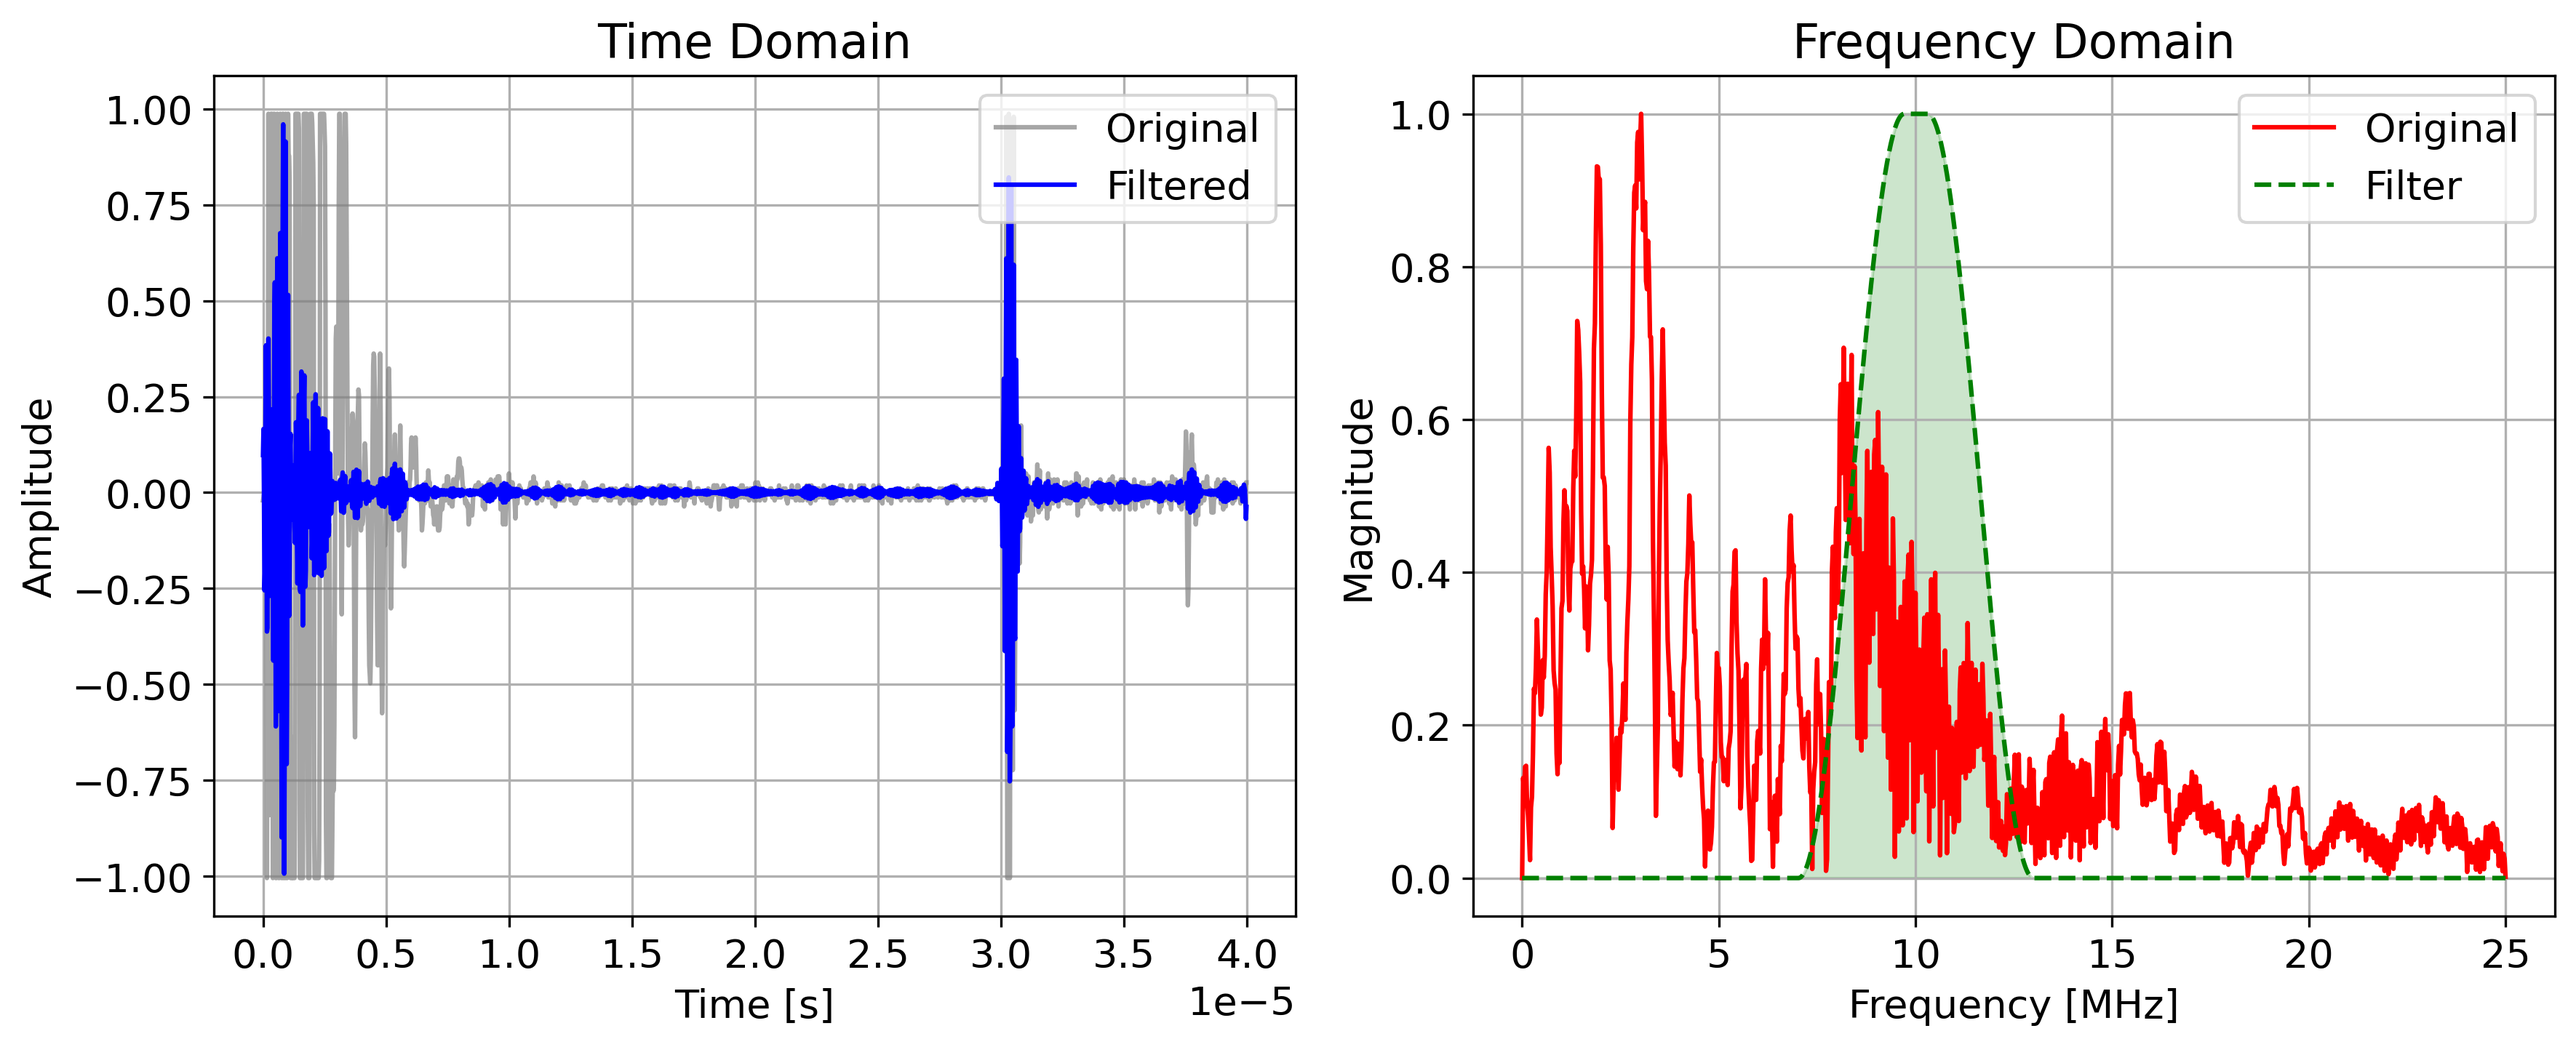
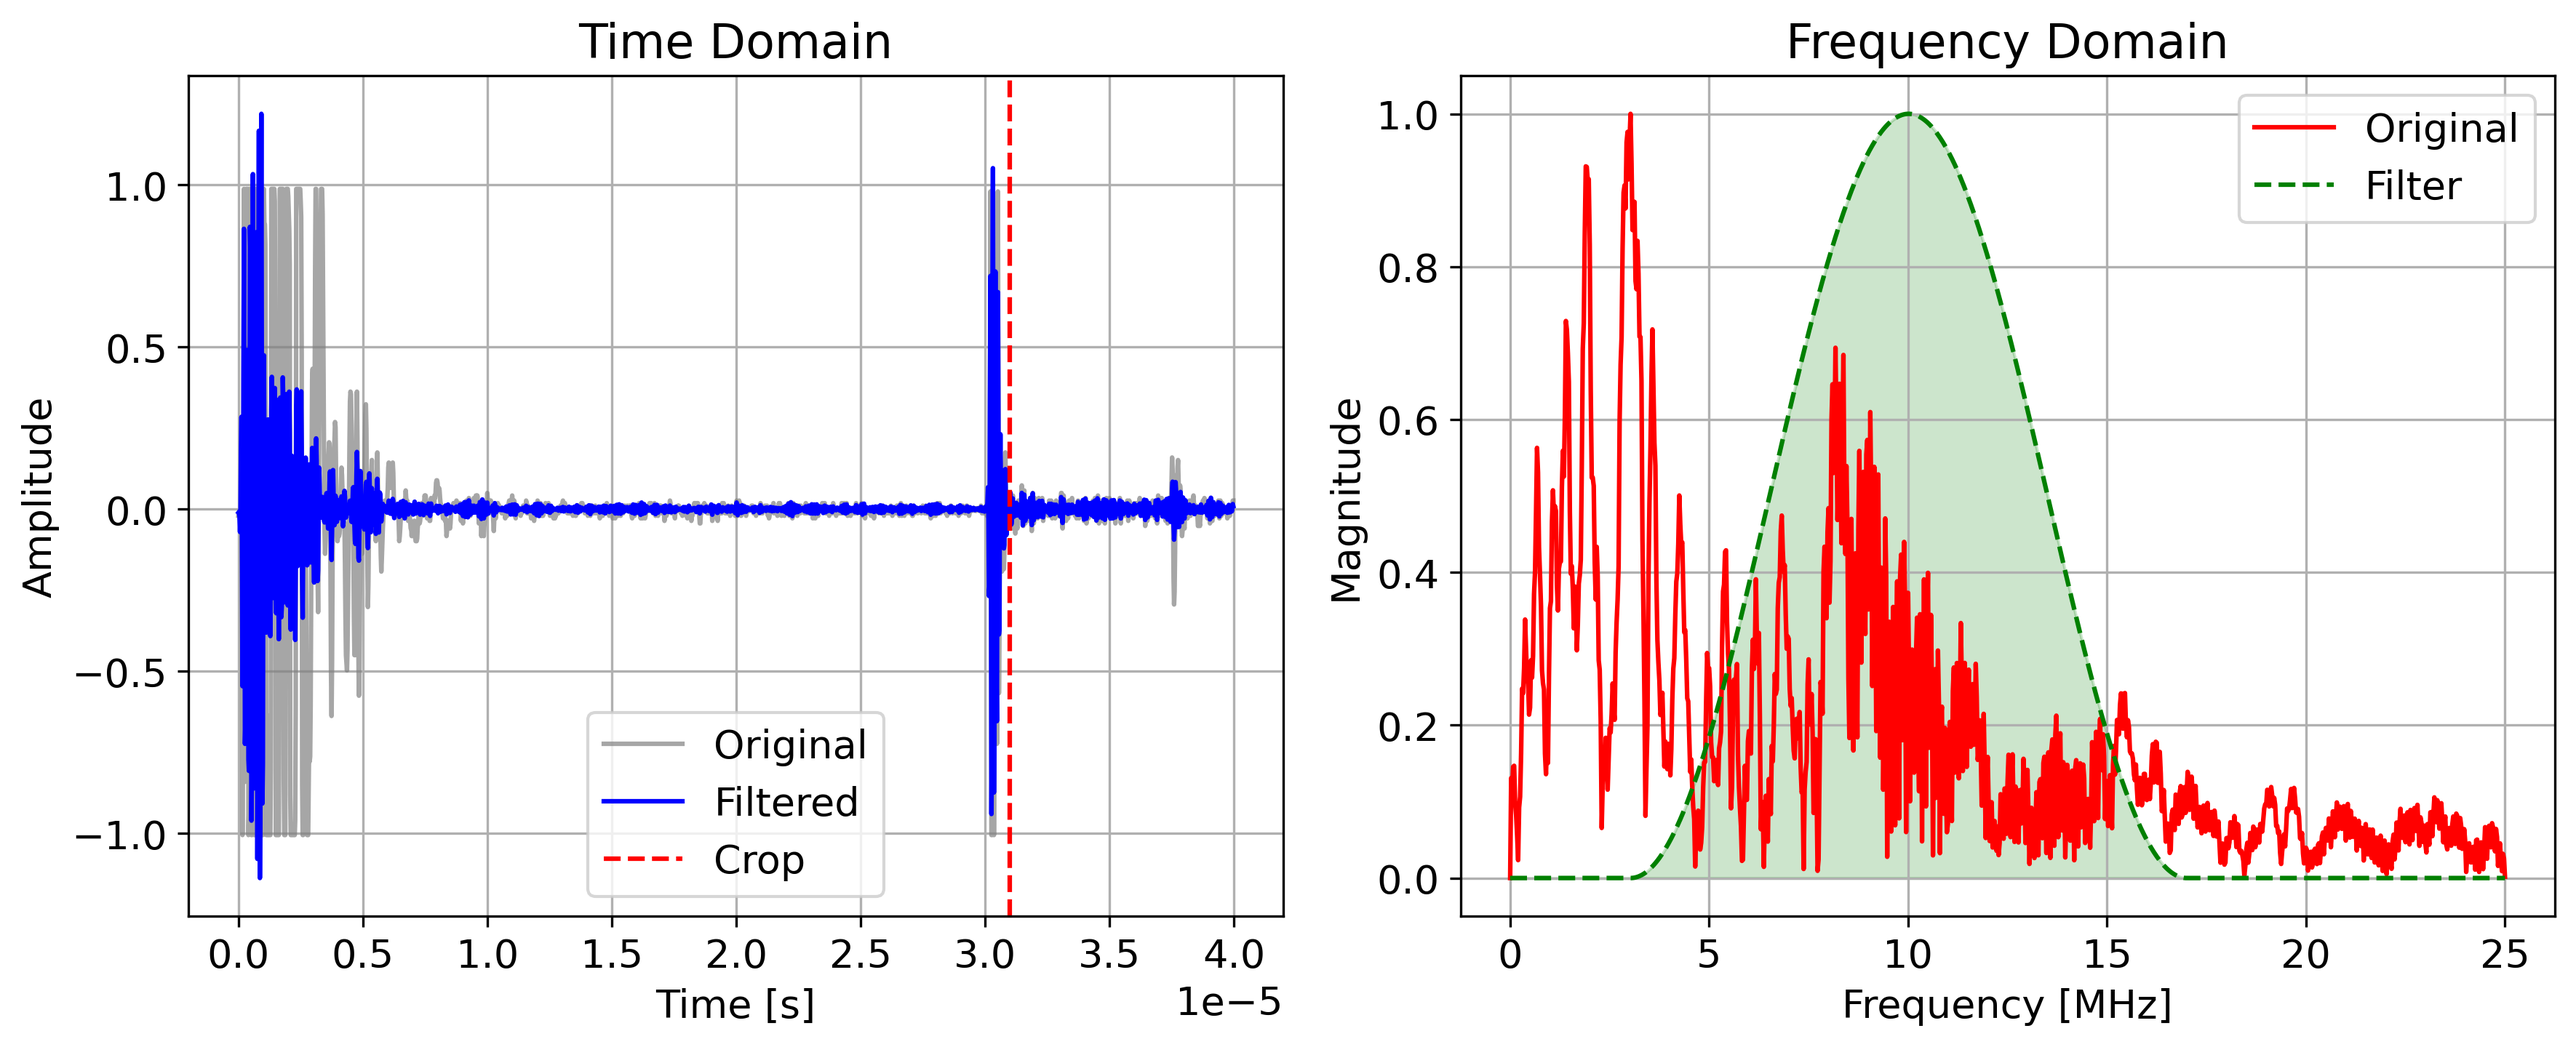
Lain Updates

diff --git a/PROCESSING/Report Filtering Example.py b/PROCESSING/Report Filtering Example.py
@@ -1,0 +1,149 @@
+#%%
+from pathlib import Path
+import sys
+import os
+import matplotlib.pyplot as plt
+import pandas as pd
+import numpy as np
+import h5py
+
+root_path = Path(__file__).resolve().parent.parent
+if str(root_path) not in sys.path:
+    sys.path.append(str(root_path))
+
+from Classes.Filter import filter_signal
+
+def remove_spikes(signal, threshold=500, verbose=False):
+    signal = signal.copy()
+    for i in range(1, len(signal)):
+        if signal[i] > threshold:
+            signal[i] = signal[i-1]
+            if verbose:
+                print('Signal exceeds threshold')
+    return signal
+
+
+raw_data_type       = '1D Raw Data'
+raw_data_name       = 'Al Hole 15MHz 26012026'
+processed_data_type = '1D Processed Data'
+
+display_picture     = True
+save_picture        = True  
+all_pictures        = False  
+filter_data         = False
+
+crop_data           = True
+crop_initial_amount = 100  
+crop_latter_amount  = 800
+
+# Filtering Parameters
+filter_alpha   = 1.0
+MHz_percentage = 1.5 
+hanning_bool   = False
+
+IN_DIR  = os.path.join(root_path, 'DATA', raw_data_type, raw_data_name)
+if filter_data:
+    OUT_DIR = os.path.join(root_path, 'DATA', processed_data_type, (raw_data_name + ' Filtered'))
+else:
+    OUT_DIR = os.path.join(root_path, 'DATA', processed_data_type, raw_data_name)
+
+os.makedirs(OUT_DIR, exist_ok=True)
+
+# Find all .mat files
+mat_files = [
+    f for f in os.listdir(IN_DIR)
+    if f.lower().endswith(".mat")
+    and os.path.isfile(os.path.join(IN_DIR, f))
+]
+mat_files = np.sort(mat_files)
+
+print(f'Found {len(mat_files)} files in directory.')
+
+#%%
+# main
+
+for file in mat_files:
+    print(f'Processing {file}')
+    file_path = os.path.join(IN_DIR, file)
+
+    base_name = os.path.splitext(file)[0]
+    if filter_data:
+        base_name += "_filtered"
+
+    file_out_dir = os.path.join(OUT_DIR, base_name)
+    os.makedirs(file_out_dir, exist_ok=True)
+
+    with h5py.File(file_path, "r") as f:
+        centre_freq = f["exp_data/array/centre_freq"][()][0][0]
+        
+        el_x1 = np.array(f["exp_data/array/el_x1"]).flatten()
+        tx = np.array(f["exp_data/tx"]).flatten().astype(int)
+        rx = np.array(f["exp_data/rx"]).flatten().astype(int)
+        time = np.array(f["exp_data/time"])[0]
+        time_data = np.array(f["exp_data/time_data"])
+
+    if crop_data:
+        print(f'Cropping: Removing first {crop_initial_amount} samples and keeping up to sample {crop_latter_amount}.')
+        time_data = time_data[:, crop_initial_amount:crop_latter_amount]
+        time      = time[crop_initial_amount:crop_latter_amount]
+
+    # Clean signal spikes
+    time_data = np.apply_along_axis(remove_spikes, axis=1, arr=time_data, threshold=500)
+
+    # Filtering Logic
+    if filter_data:
+        MHz_spacing = (centre_freq/1e6) * MHz_percentage
+        f_start = (centre_freq/1e6) - MHz_spacing
+        f_end   = (centre_freq/1e6) + MHz_spacing
+        dt      = time[1] - time[0]
+
+        print(f"Filtering signals ({f_start:.2f}MHz to {f_end:.2f}MHz)")
+        time_data = np.apply_along_axis(
+            filter_signal, 
+            axis=1, 
+            arr=time_data, 
+            dt=dt, 
+            f_start=f_start, 
+            f_end=f_end, 
+            filter_alpha=filter_alpha,
+            hanning_bool=hanning_bool
+            )
+        
+        time_data = time_data.astype(np.float32)
+
+    if display_picture:
+        print('Intensity')
+        n_el = len(el_x1)
+        n_t  = time_data.shape[1]
+        fmc = np.zeros((n_el, n_el, n_t))
+
+        for t in range(1, n_el + 1):
+            mask = tx == t
+            data_t = time_data[mask, :]
+            rx_t   = rx[mask]
+            order = np.argsort(rx_t)
+            fmc[t-1, :, :] = data_t[order, :]
+
+        img = np.sqrt(np.mean(fmc**2, axis=0))
+
+        plt.figure(figsize=(10, 6))
+        plt.imshow(
+            img,
+            aspect="auto",
+            extent=[time[0], time[-1], n_el, 1],
+            cmap="viridis"
+        )
+        plt.axis('off')
+        
+        if save_picture:
+            out_name = base_name + ".png"
+            save_path = os.path.join(file_out_dir, out_name)
+            plt.savefig((f'Images/{out_name}'), dpi=300, bbox_inches='tight', pad_inches=0)
+            print(f"Image saved to: {out_name}")
+        
+        plt.show()
+
+    if not all_pictures:
+        break
+
+print("\nProcessing complete.")

diff --git a/PROCESSING/Filter_Demo.py b/PROCESSING/Filter_Demo.py
@@ -29,8 +29,8 @@ cwd                 = Path.cwd().parent
 file                = 'Al_70_1_1.mat'
 
 # Filtering Parameters
-filter_alpha = 0.9
-MHz_percentage  = 0.3 # percentage
+filter_alpha = 1.0
+MHz_percentage  = 0.7 # percentage
 hanning_bool = False
 
 # Input and Output paths.
@@ -247,11 +247,13 @@ fig, ax = plt.subplots(1, 2, figsize=(12, 5))
 # Time-domain overlay
 ax[0].plot(time, signal, label="Original", alpha=0.7, color='gray')
 ax[0].plot(time, filtered_signal, label="Filtered", color='blue')
+ax[0].axvline(x=3.1e-5, color='red', linestyle='--', label='Crop')
 ax[0].set_xlabel("Time [s]")
 ax[0].set_ylabel("Amplitude")
 ax[0].set_title("Time Domain")
 ax[0].grid(True)
-ax[0].legend(loc='upper right')
+# ax[0].legend(loc='upper right')
+ax[0].legend()
 
 # Frequency-domain overlay
 ax[1].plot(freqs, magnitude / np.max(magnitude), c='r', label="Original")
